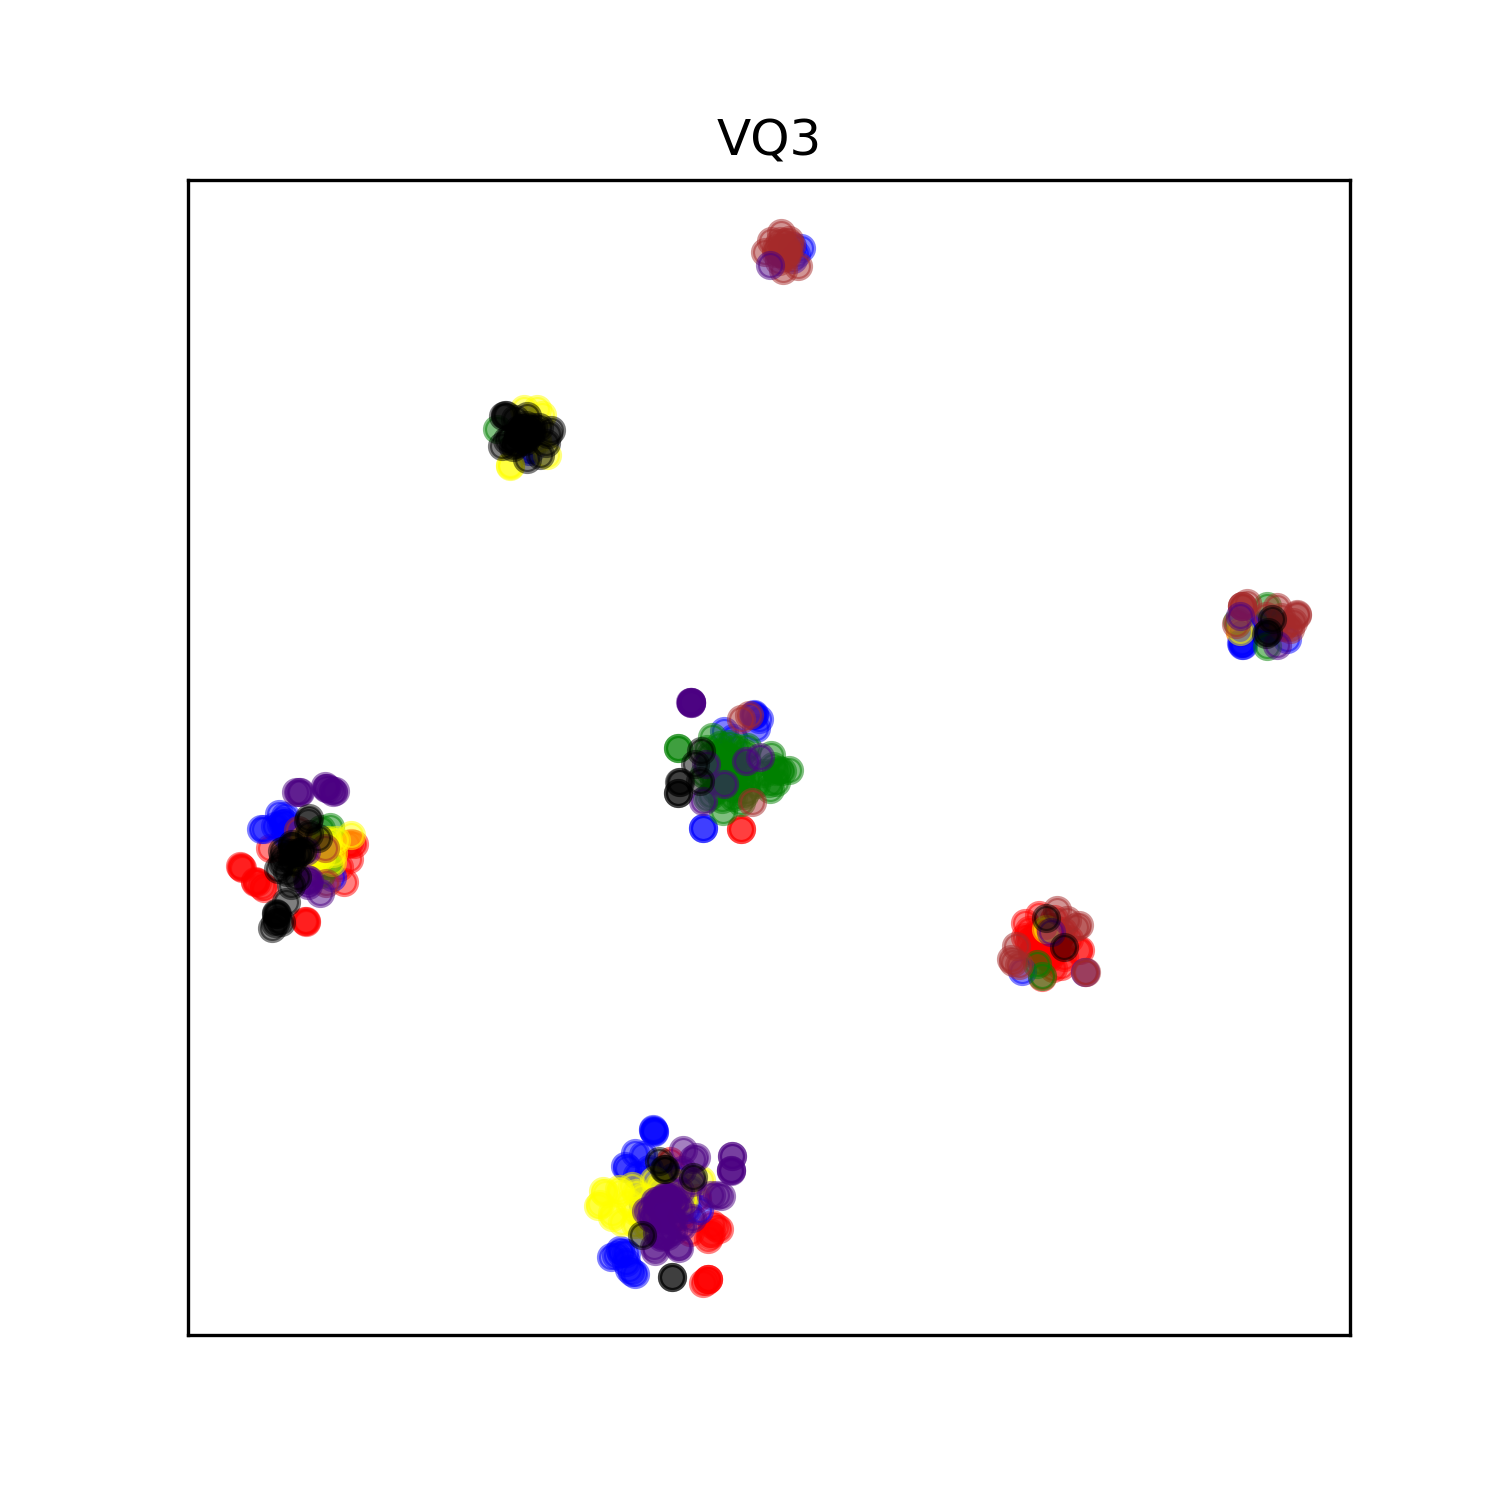
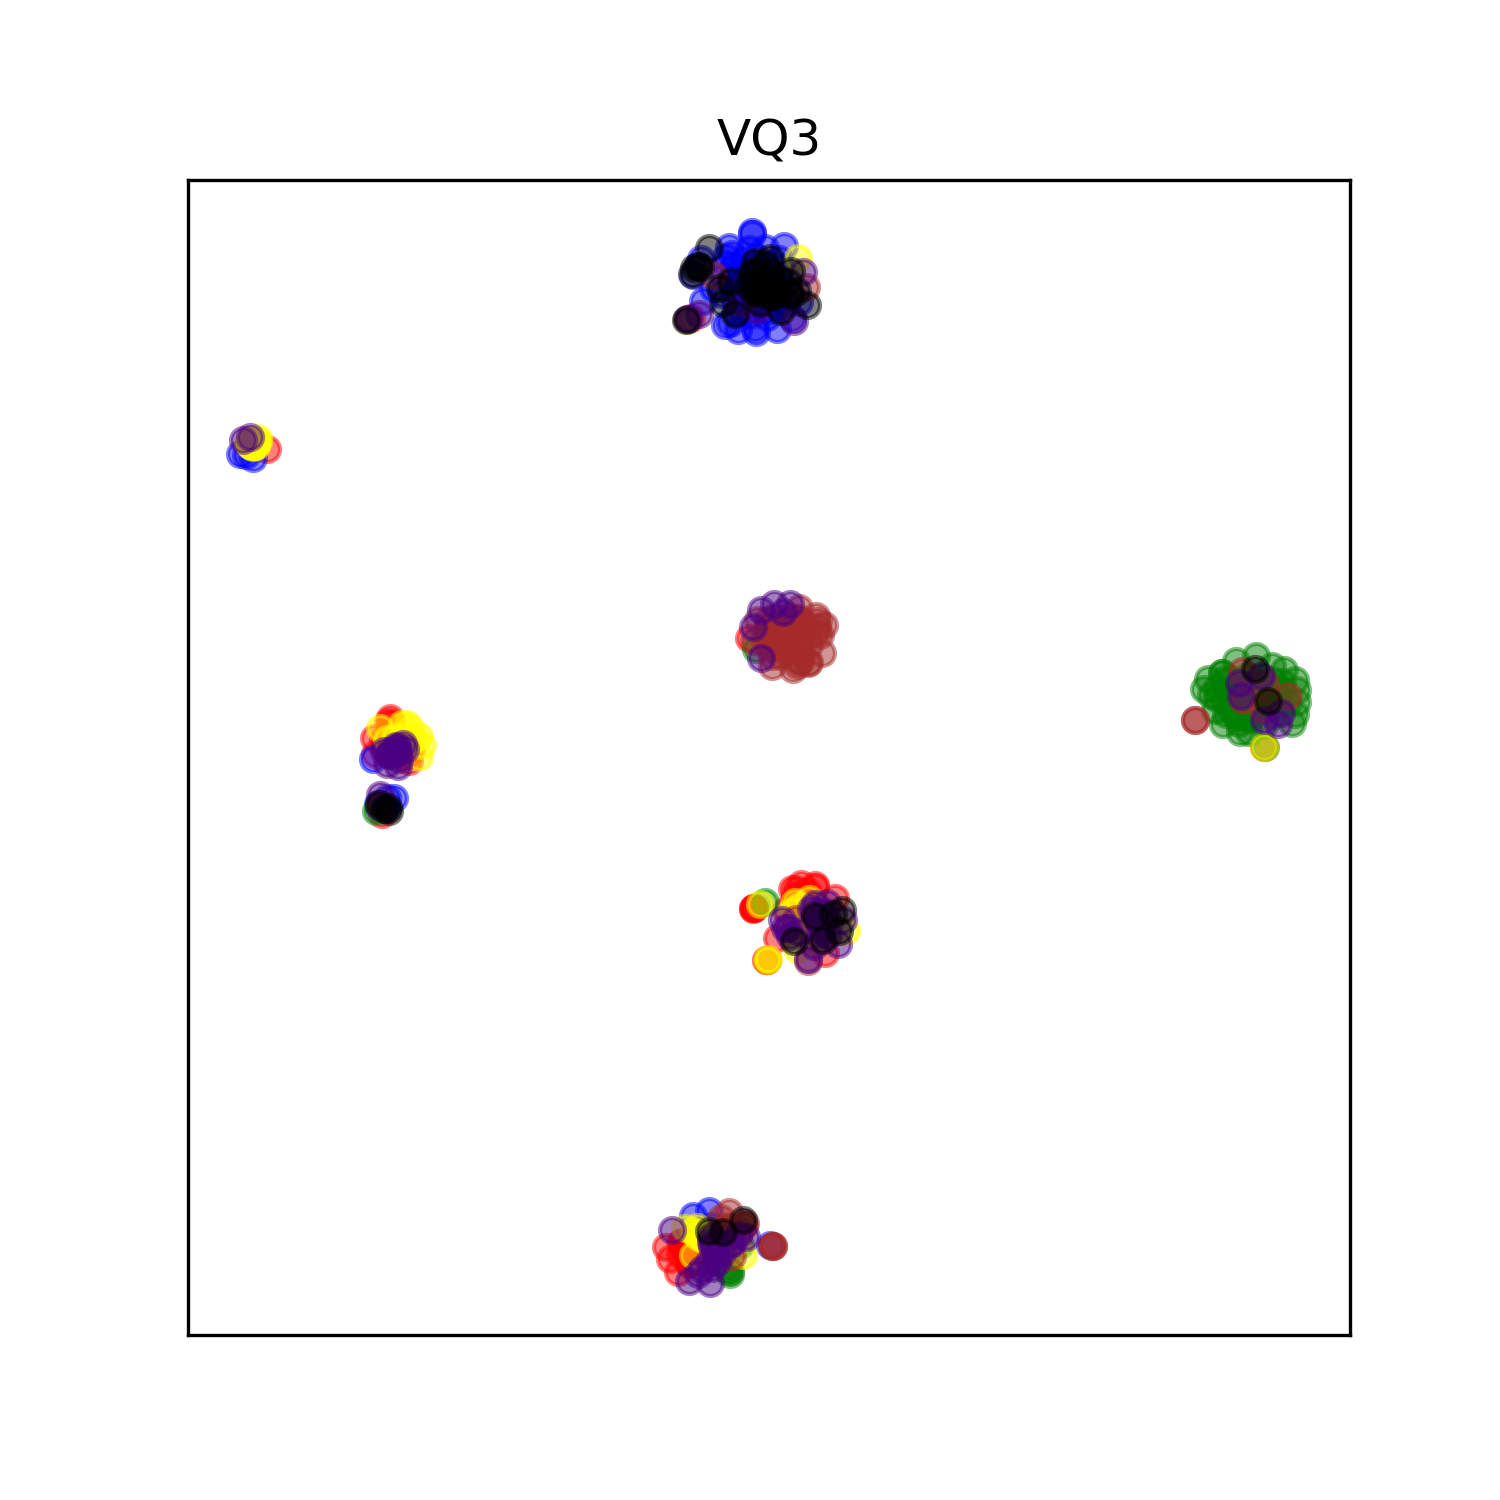
no detach of neutral in triplet loss

diff --git a/model/loss.py b/model/loss.py
@@ -225,10 +225,12 @@ class FastSpeech2Loss(nn.Module):
                 if emb.numel() == 0:
                     continue
                 emb_for_triplet = emb.clone()
-                if neutral_mask.any():
-                    emb_for_triplet = emb_for_triplet.clone()
-                    # neutral 행만 detach
-                    emb_for_triplet[neutral_mask] = emb_for_triplet[neutral_mask].detach()
+                
+                # No detach of neutral ... 
+                # if neutral_mask.any():
+                #     emb_for_triplet = emb_for_triplet.clone()
+                #     # neutral 행만 detach
+                #     emb_for_triplet[neutral_mask] = emb_for_triplet[neutral_mask].detach()
 
                 anchor, positive, negative = create_triplet_samples(emb_for_triplet, emotions)
                 if anchor is not None:

diff --git a/visualize.py b/visualize.py
@@ -86,7 +86,7 @@ if __name__ == "__main__":
     def run_tsne(data, perplexity=20, n_iter=2000):
         if data.shape[1] == 0:
             return None
-        tsne_model = TSNE(n_components=2, random_state=0, init='random', perplexity=perplexity, n_iter=n_iter)
+        tsne_model = TSNE(n_components=2, random_state=0, init='random', perplexity=perplexity, max_iter=n_iter)
         return tsne_model.fit_transform(data)
 
     tsne_1 = run_tsne(data_x_1)

diff --git a/synthesize_intensity.py b/synthesize_intensity.py
@@ -117,6 +117,9 @@ def main():
     vocoder = get_vocoder(model_config, device)
     model.eval()
 
+    print("Loaded neu_base mean:", model.neu_base.mean().item())
+    print("Loaded neu_base std :", model.neu_base.std().item())
+
     # maps
     with open(os.path.join(preprocess_config["path"]["preprocessed_path"], "speakers.json")) as f:
         spk_map = json.load(f)
